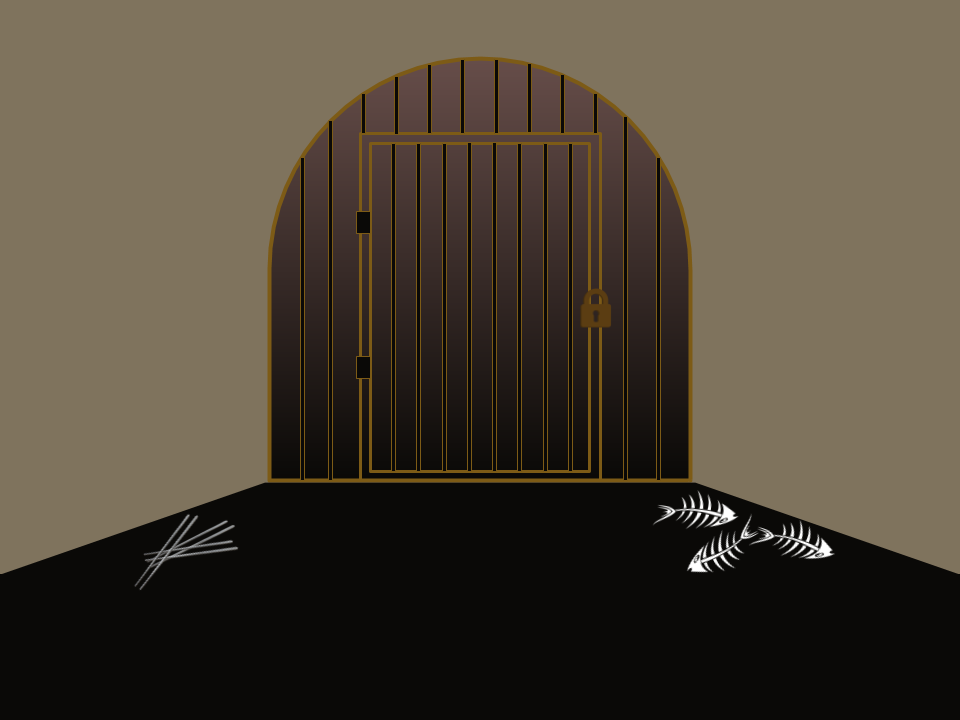
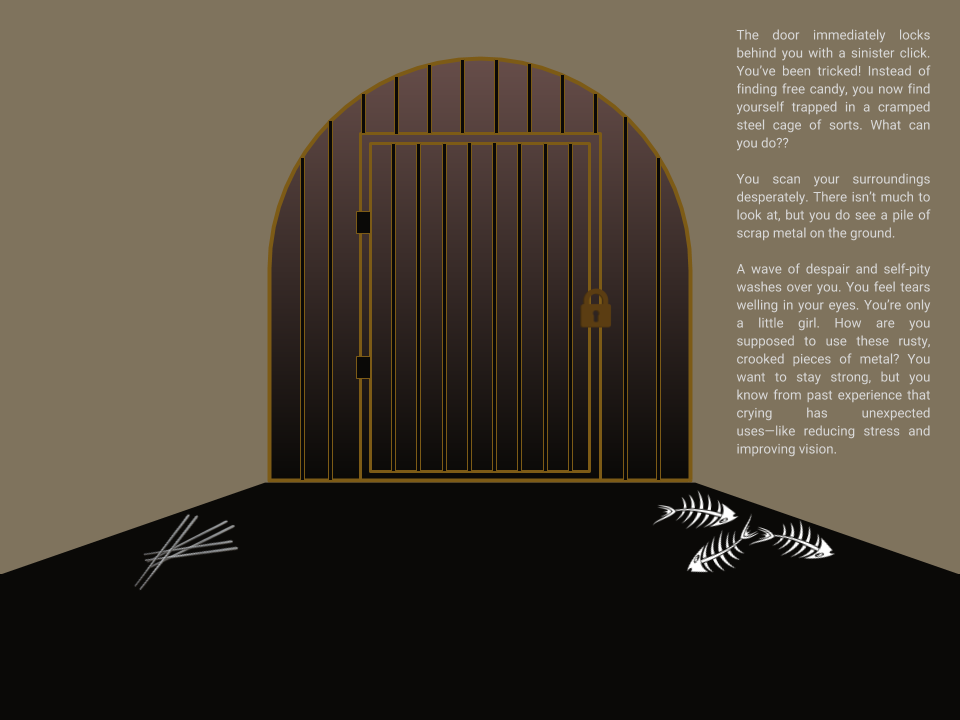
Adding hints

Changed region(s): [[0.75, 0.3667, 0.9688, 0.6417], [0.75, 0.0306, 0.9688, 0.2139], [0.75, 0.2444, 0.9688, 0.3361]]

diff --git a/Layout.py b/Layout.py
@@ -12,15 +12,15 @@ import random
 inventory = {'hello':1, 'sdkf':6, 'this': 10, 'testing':20}
 
 '''
-rooms contains boolean values for each room
-    - order of rooms is: Library, Dungeon, Kitchen, Pantry, Fridge, Garden
+first_vis contains boolean values for each room
+    - order of first_vis is: Library, Dungeon, Kitchen, Pantry, Fridge, Garden
     - Foyer, Cage, and Oven are excluded because they are each only visited once
     - True means that the room has not been visited yet
     - False means that the room has already been visited
 these values are used to determine whether or not to show a hint 
 
 '''
-rooms = [True, True, True, True, True, True]
+first_vis = [True, True, True, True, True, True]
       
 class SampleApp(tk.Tk):
     def __init__(self):
@@ -340,7 +340,13 @@ class Library(tk.Frame):
         screen = w.create_image((0,0), image = photo, anchor = 'nw')
         w.image = photo
         
-                
+        if first_vis[0]:
+            hint = PIL.Image.open('hint_library.png')
+            hin = PIL.ImageTk.PhotoImage(hint)
+            hi = tk.Label(self, image = hin, background = "#7f735d")
+            hi.image = hin
+            hi_window = w.create_window(214, 550, window = hi, anchor  = 'nw')
+            
         ex = PIL.Image.open('quit.png')
         ex = ex.resize((100,100))
         q = PIL.ImageTk.PhotoImage(ex)
@@ -385,7 +391,8 @@ class Library(tk.Frame):
         brown = tk.Button(self, background = "#895825", borderwidth=0, relief = 'flat', width = 2, height = 2, 
                    command=lambda: master.switch_frame(Dungeon))
         brown_window = w.create_window(716, 361, window = brown, anchor  = 'nw')                      
-                                                              
+       
+        first_vis[0]=False                                                 
 # initialize Kitchen screen and widgets
 class Kitchen(tk.Frame):
     def __init__(self, master):
